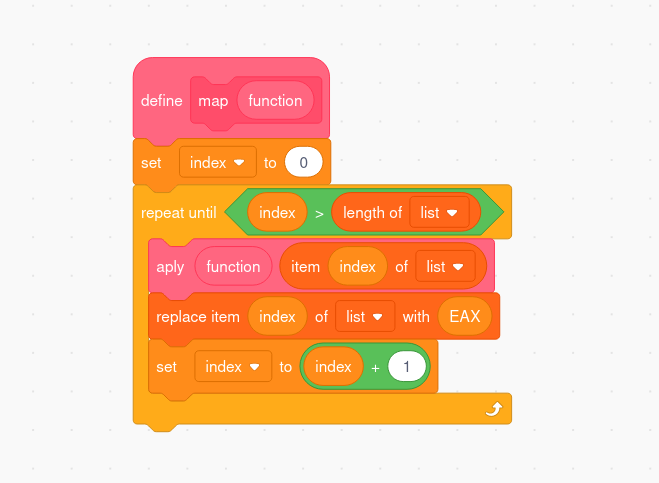
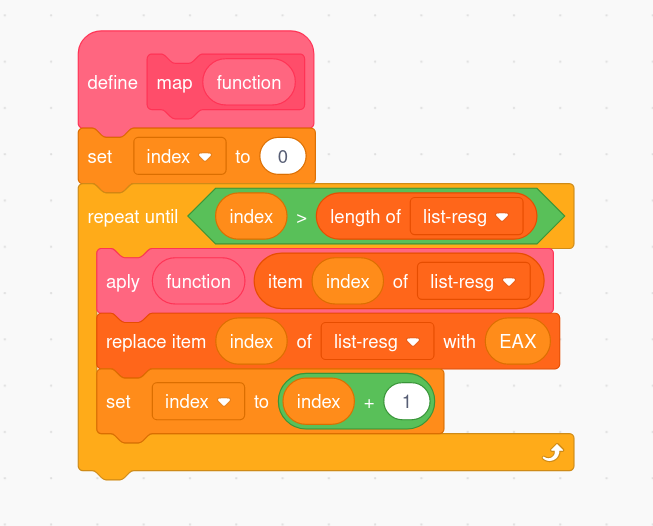
join function

diff --git a/docs/blogs/list_monad.md b/docs/blogs/list_monad.md
@@ -1,7 +1,7 @@
 2024-02-04
 # Is it feasible to create the List Monad in Scratch?
 
-Sometimes the idea of doing unuseful and hard things excites me, implementing the [list monad](https://en.wikibooks.org/wiki/Haskell/Understanding_monads/List) in [scratch](https://scratch.mit.edu/) was one of those.
+Sometimes the idea of doing unuseful and hard things excites me, implementing the [list monad](https://en.wikibooks.org/wiki/Haskell/Understanding_monads/List) in [scratch](https://scratch.mit.edu/) was one of those. Scratch already has implemented the List datatype making our lives easier.
 
 
 To make things simple, I'll only create four functions to implement the list monad:
@@ -12,7 +12,7 @@ To make things simple, I'll only create four functions to implement the list mon
 *  ``` join :: [[a]] -> [a] ``` for grouping nested monads (lists in this case)
 *  ``` bind :: [a] -> (a -> [b]) -> [b] ``` for concatenating the results of applying a function to each element of a list
 
-## Scratch 
+## Scratch
 Doing things in Scratch is a difficult challenge. Concepts we have taken for granted in other languages do not exist in scratch. Besides actually implementing the list monad, I had to collaborate with the fact that there's:
 
 * No higher order and no function pointers
@@ -38,7 +38,13 @@ I can't pass functions as arguments in scratch, but I can pass strings. I create
 
 ![bit](/img/scratch-apply.png)
 
-
-## MAP
-
+## Map
+To map each element, I'm assuming there's already content in a list registry. Because there's no return statement, after applying the function to each element, I have to get back the result from EAX.
 ![bit](/img/scratch-map.png)
+
+
+## Join
+I don't know if it's possible to make a concat operation because when I can't iterate a nested list, I don't know how many elements there are, so I may have to make my own length function.
+## Bind
+
+## Use cases
